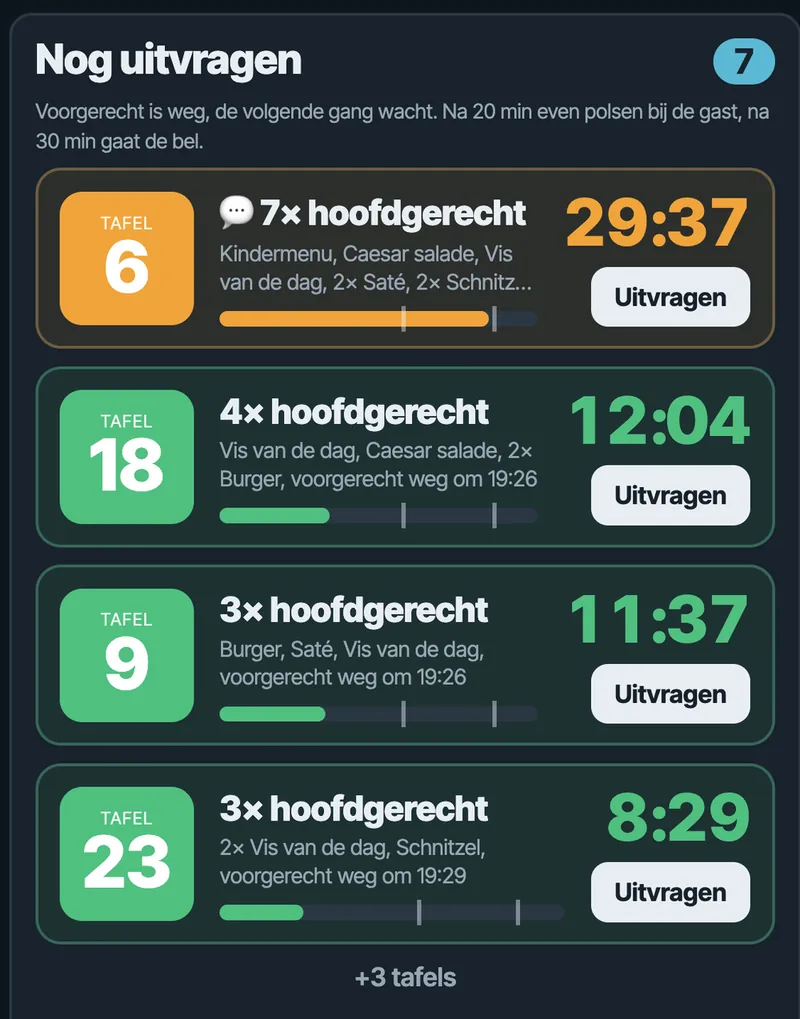
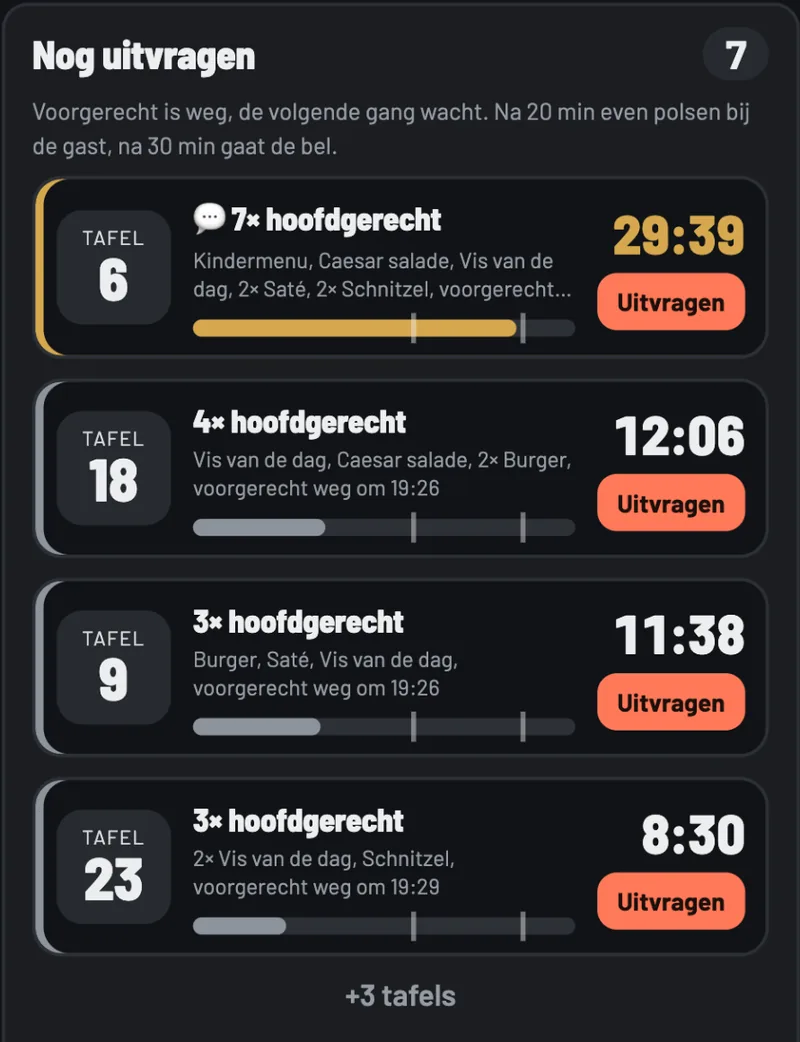
Pass-plaatjes vervangen door de rustigere Pass-stijl (#30)
Hoofdscherm, Nog uitvragen, Drankkansen en Analyse opnieuw gemaakt vanuit
de nieuwe live versie van Pass (demomodus). De schermpjes in de drie
sfeerfoto's zijn vervangen door dezelfde nieuwe schermen.

Claude-Session: https://claude.ai/code/session_01ALUUsfmRKza1PMbGdj28pU

diff --git a/index.html b/index.html
@@ -981,7 +981,7 @@ footer .meta a:hover{color:var(--fg)}
 </div>
 </div>
 
-<div class="wrap ha-wrap"><div class="hero-apps"><a class="h-fill" href="#fill" aria-label="Bekijk Fill"><img src="img/sfeer/fill-1.webp" alt="" style="object-position:62% center" loading="eager"><span class="ha-t"><b>Fill<i aria-hidden="true"><svg viewBox="0 0 24 24" fill="none" stroke="currentColor" stroke-width="2.8" stroke-linecap="round" stroke-linejoin="round"><path d="M5 12h14M13 6l6 6-6 6"/></svg></i></b><span>Volle koelingen, live met je kassa</span></span></a><a class="h-loop" href="#loop" aria-label="Bekijk Loop"><img src="img/sfeer/loop-3.webp" alt="" style="object-position:72% center" loading="eager"><span class="ha-t"><b>Loop<i aria-hidden="true"><svg viewBox="0 0 24 24" fill="none" stroke="currentColor" stroke-width="2.8" stroke-linecap="round" stroke-linejoin="round"><path d="M5 12h14M13 6l6 6-6 6"/></svg></i></b><span>De mise en place samen op één lijst</span></span></a><a class="h-pass" href="#pass" aria-label="Bekijk Pass"><img src="img/sfeer/pass-3.webp" alt="" style="object-position:38% center" loading="eager"><span class="ha-t"><b>Pass<i aria-hidden="true"><svg viewBox="0 0 24 24" fill="none" stroke="currentColor" stroke-width="2.8" stroke-linecap="round" stroke-linejoin="round"><path d="M5 12h14M13 6l6 6-6 6"/></svg></i></b><span>Meer drankjes, op het juiste moment</span></span></a><a class="h-echo" href="#echo" aria-label="Bekijk Echo"><img src="img/sfeer/echo-2.webp" alt="" style="object-position:48% center" loading="eager"><span class="ha-t"><b>Echo<i aria-hidden="true"><svg viewBox="0 0 24 24" fill="none" stroke="currentColor" stroke-width="2.8" stroke-linecap="round" stroke-linejoin="round"><path d="M5 12h14M13 6l6 6-6 6"/></svg></i></b><span>Eén tik aan tafel na het afrekenen</span></span></a></div></div>
+<div class="wrap ha-wrap"><div class="hero-apps"><a class="h-fill" href="#fill" aria-label="Bekijk Fill"><img src="img/sfeer/fill-1.webp" alt="" style="object-position:62% center" loading="eager"><span class="ha-t"><b>Fill<i aria-hidden="true"><svg viewBox="0 0 24 24" fill="none" stroke="currentColor" stroke-width="2.8" stroke-linecap="round" stroke-linejoin="round"><path d="M5 12h14M13 6l6 6-6 6"/></svg></i></b><span>Volle koelingen, live met je kassa</span></span></a><a class="h-loop" href="#loop" aria-label="Bekijk Loop"><img src="img/sfeer/loop-3.webp" alt="" style="object-position:72% center" loading="eager"><span class="ha-t"><b>Loop<i aria-hidden="true"><svg viewBox="0 0 24 24" fill="none" stroke="currentColor" stroke-width="2.8" stroke-linecap="round" stroke-linejoin="round"><path d="M5 12h14M13 6l6 6-6 6"/></svg></i></b><span>De mise en place samen op één lijst</span></span></a><a class="h-pass" href="#pass" aria-label="Bekijk Pass"><img src="img/sfeer/pass-3.webp?v=2" alt="" style="object-position:38% center" loading="eager"><span class="ha-t"><b>Pass<i aria-hidden="true"><svg viewBox="0 0 24 24" fill="none" stroke="currentColor" stroke-width="2.8" stroke-linecap="round" stroke-linejoin="round"><path d="M5 12h14M13 6l6 6-6 6"/></svg></i></b><span>Meer drankjes, op het juiste moment</span></span></a><a class="h-echo" href="#echo" aria-label="Bekijk Echo"><img src="img/sfeer/echo-2.webp" alt="" style="object-position:48% center" loading="eager"><span class="ha-t"><b>Echo<i aria-hidden="true"><svg viewBox="0 0 24 24" fill="none" stroke="currentColor" stroke-width="2.8" stroke-linecap="round" stroke-linejoin="round"><path d="M5 12h14M13 6l6 6-6 6"/></svg></i></b><span>Eén tik aan tafel na het afrekenen</span></span></a></div></div>
 <div class="wrap ha-wrap day-wrap">
 <div class="day" id="day" aria-label="Een dag in de horeca met de momenten waarop Loop, Pass, Fill en Echo het werk doen">
 <div class="day-h"><b>Een dag met RoboShift</b><span class="day-now" id="day-now"><i></i>nu <b class="num" id="day-time">20:00</b></span></div>
@@ -1210,9 +1210,9 @@ footer .meta a:hover{color:var(--fg)}
 <!-- ===== PASS ===== -->
 <div class="app-panel" id="pass" role="tabpanel" aria-labelledby="t-pass" hidden>
 <div class="duo duo-top">
-<figure><img src="img/sfeer/pass-3.webp" alt="Bediening met een rondje bier en Pass op de telefoon" loading="lazy"><figcaption>Drankkansen: zie welke tafel toe is aan een rondje.</figcaption></figure>
-<figure><img src="img/sfeer/pass-2.webp" alt="Bediening tikt op Pass om een tafel uit te vragen" loading="lazy"><figcaption>Uitvragen op het juiste moment, met één tik in unTill.</figcaption></figure>
-<figure><img src="img/sfeer/pass-1.webp" alt="Pass op de tablet bij de pas, onder de warmhoudlampen" style="object-position:75% center" loading="lazy"><figcaption>Bij de pas ziet de bediening in één blik wat er nu moet gebeuren.</figcaption></figure>
+<figure><img src="img/sfeer/pass-3.webp?v=2" alt="Bediening met een rondje bier en Pass op de telefoon" loading="lazy"><figcaption>Drankkansen: zie welke tafel toe is aan een rondje.</figcaption></figure>
+<figure><img src="img/sfeer/pass-2.webp?v=2" alt="Bediening tikt op Pass om een tafel uit te vragen" loading="lazy"><figcaption>Uitvragen op het juiste moment, met één tik in unTill.</figcaption></figure>
+<figure><img src="img/sfeer/pass-1.webp?v=2" alt="Pass op de tablet bij de pas, onder de warmhoudlampen" style="object-position:75% center" loading="lazy"><figcaption>Bij de pas ziet de bediening in één blik wat er nu moet gebeuren.</figcaption></figure>
 </div>
 <div class="pass-top">
 <div>
@@ -1228,7 +1228,7 @@ footer .meta a:hover{color:var(--fg)}
 </ul>
 </div>
 <figure class="tv shot-tv">
-<div class="tv-screen shot" id="pass-live"><span class="live-tag"><span class="dot"></span>Live demo · klik gerust rond</span><img src="img/pass-live.webp" width="2000" height="1125" alt="Pass live-scherm: tafels die nog uitgevraagd moeten worden, drankkansen per tafel en het scorebord met lunch, drankjes en diner" loading="lazy" decoding="async"></div>
+<div class="tv-screen shot" id="pass-live"><span class="live-tag"><span class="dot"></span>Live demo · klik gerust rond</span><img src="img/pass-live.webp?v=2" width="2000" height="1125" alt="Pass live-scherm: tafels die nog uitgevraagd moeten worden, drankkansen per tafel en het scorebord met lunch, drankjes en diner" loading="lazy" decoding="async"></div>
 <div class="tv-foot"></div>
 </figure>
 <p class="example">Hierboven draait de echte Pass-app met voorbeeldgegevens: klik gerust op de knoppen. Pass wordt nu gebouwd en getest in Eetcafé de Kwikkel.</p>
@@ -1236,15 +1236,15 @@ footer .meta a:hover{color:var(--fg)}
 <div class="more-h"><h3>Meer in <em>Pass</em></h3><div class="rail-nav"><button type="button" data-dir="-1" aria-label="Vorige"><svg viewBox="0 0 24 24" fill="none" stroke="currentColor" stroke-width="2.6" stroke-linecap="round" stroke-linejoin="round"><path d="M15 6l-6 6 6 6"/></svg></button><button type="button" data-dir="1" aria-label="Volgende"><svg viewBox="0 0 24 24" fill="none" stroke="currentColor" stroke-width="2.6" stroke-linecap="round" stroke-linejoin="round"><path d="M9 6l6 6-6 6"/></svg></button></div></div>
 <div class="rail">
 <figure class="shot-card wide">
-<a href="img/pass-drankkansen.webp" target="_blank" rel="noopener" class="shot"><img src="img/pass-drankkansen.webp" width="800" height="1481" alt="Pass drankkansen: tafels die toe zijn aan een drankje, met tip, kans en minuten sinds het laatste drankje" loading="lazy" decoding="async"></a>
+<a href="img/pass-drankkansen.webp?v=2" target="_blank" rel="noopener" class="shot"><img src="img/pass-drankkansen.webp?v=2" width="800" height="1508" alt="Pass drankkansen: tafels die toe zijn aan een drankje, met tip, kans en minuten sinds het laatste drankje" loading="lazy" decoding="async"></a>
 <figcaption><span class="tagline"><span class="dot coral"></span>Nieuw in Pass</span><b>Drankkansen: verkoop meer drankjes, zonder te pushen</b>Pass leert uit maanden kassadata wanneer een tafel normaal nog iets bestelt: per dagdeel, met of zonder eten, per ronde en per tafelgrootte. Is een tafel toe aan een drankje, dan springt hij bovenaan. Met een concrete tip: nog een rondje bier, een glas wijn bij het eten of koffie na het dessert. Met een scorebord voor lunch, diner en drankjes, en hoe vaak het lukte vergeleken met normaal.</figcaption>
 </figure>
 <figure class="shot-card">
-<a href="img/pass-uitvragen.webp" target="_blank" rel="noopener" class="shot"><img src="img/pass-uitvragen.webp" width="800" height="1019" alt="Pass: lijst met tafels die nog uitgevraagd moeten worden, met timer en Uitvragen-knop" loading="lazy" decoding="async"></a>
+<a href="img/pass-uitvragen.webp?v=2" target="_blank" rel="noopener" class="shot"><img src="img/pass-uitvragen.webp?v=2" width="800" height="1042" alt="Pass: lijst met tafels die nog uitgevraagd moeten worden, met timer en Uitvragen-knop" loading="lazy" decoding="async"></a>
 <figcaption><b>Nog uitvragen</b>Geen tafel meer vergeten. Na 20 minuten even polsen, na 30 gaat de bel. Eén tik vraagt de volgende gang uit in unTill.</figcaption>
 </figure>
 <figure class="shot-card wide">
-<a href="img/pass-analyse.webp" target="_blank" rel="noopener" class="shot"><img src="img/pass-analyse.webp" width="2000" height="975" alt="Pass analyse: op-tijd-percentage, wachttijd per bon, verloop van de dienst per kwartier en wat er opvalt" loading="lazy" decoding="async"></a>
+<a href="img/pass-analyse.webp?v=2" target="_blank" rel="noopener" class="shot"><img src="img/pass-analyse.webp?v=2" width="2000" height="975" alt="Pass analyse: op-tijd-percentage, wachttijd per bon, verloop van de dienst per kwartier en wat er opvalt" loading="lazy" decoding="async"></a>
 <figcaption><b>Analyse</b>Elke dienst vergeleken met dezelfde dag van vorige weken. Pass laat zien waar het vastliep en wat je eraan kunt doen.</figcaption>
 </figure>
 </div>
